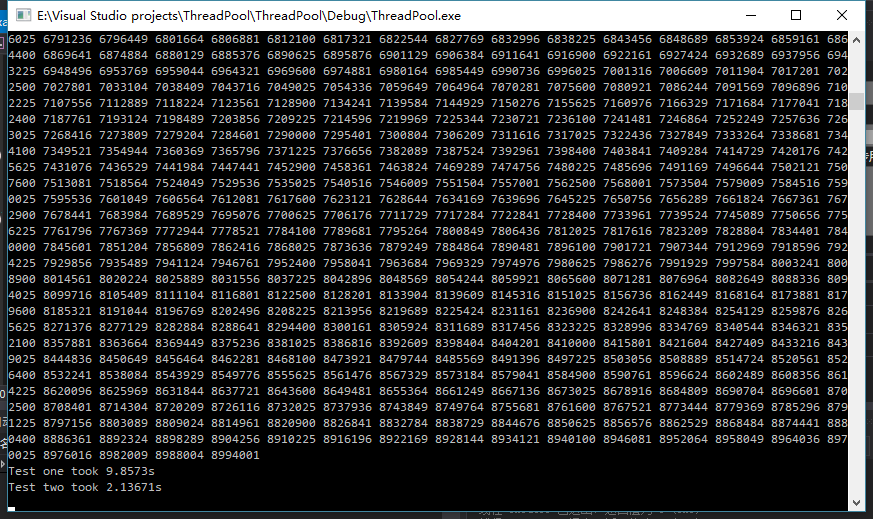
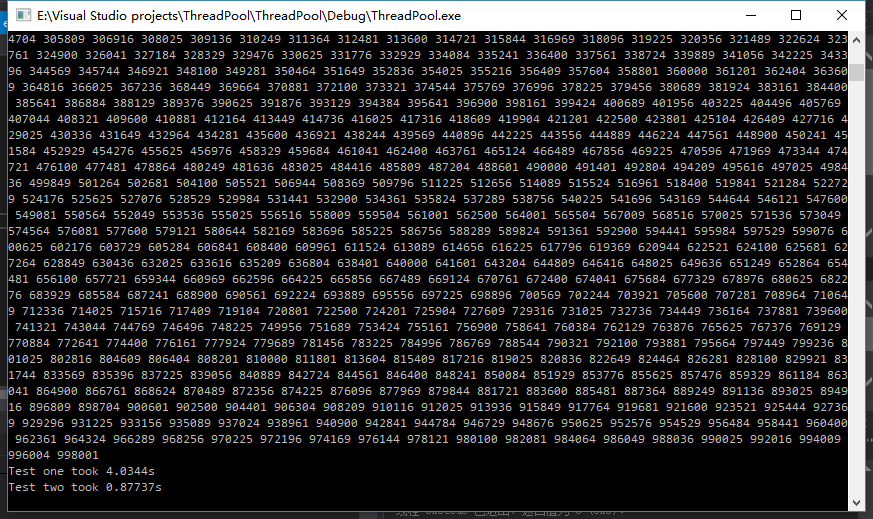
update test code & test result image.

diff --git a/example.cpp b/example.cpp
@@ -12,10 +12,10 @@ int main()
 	using namespace std::chrono;
 	auto start1 = system_clock::now();
 	std::vector<std::thread> threads;
-	for (int i = 0; i < 3000; ++i) {
+	for (int i = 0; i < 1000; ++i) {
 		threads.emplace_back([i] {
 			std::cout << " process... " << i;
-			for (int j = 0; j < 100; ++j);
+			std::this_thread::sleep_for(1ms);
 			std::cout << i*i << ' ';
 		});
 	}
@@ -26,11 +26,11 @@ int main()
 	auto start2= system_clock::now();
 	ThreadPool pool(10);
 	std::vector< std::future<int> > results;
-	for (int i = 0; i < 3000; ++i) {
+	for (int i = 0; i < 1000; ++i) {
 		results.emplace_back(
 			pool.submitTask([i] {
 			std::cout << " process... " << i;
-			for (int j = 0; j < 100; ++j);
+			std::this_thread::sleep_for(1ms);
 			return i*i;
 		})
 		);
